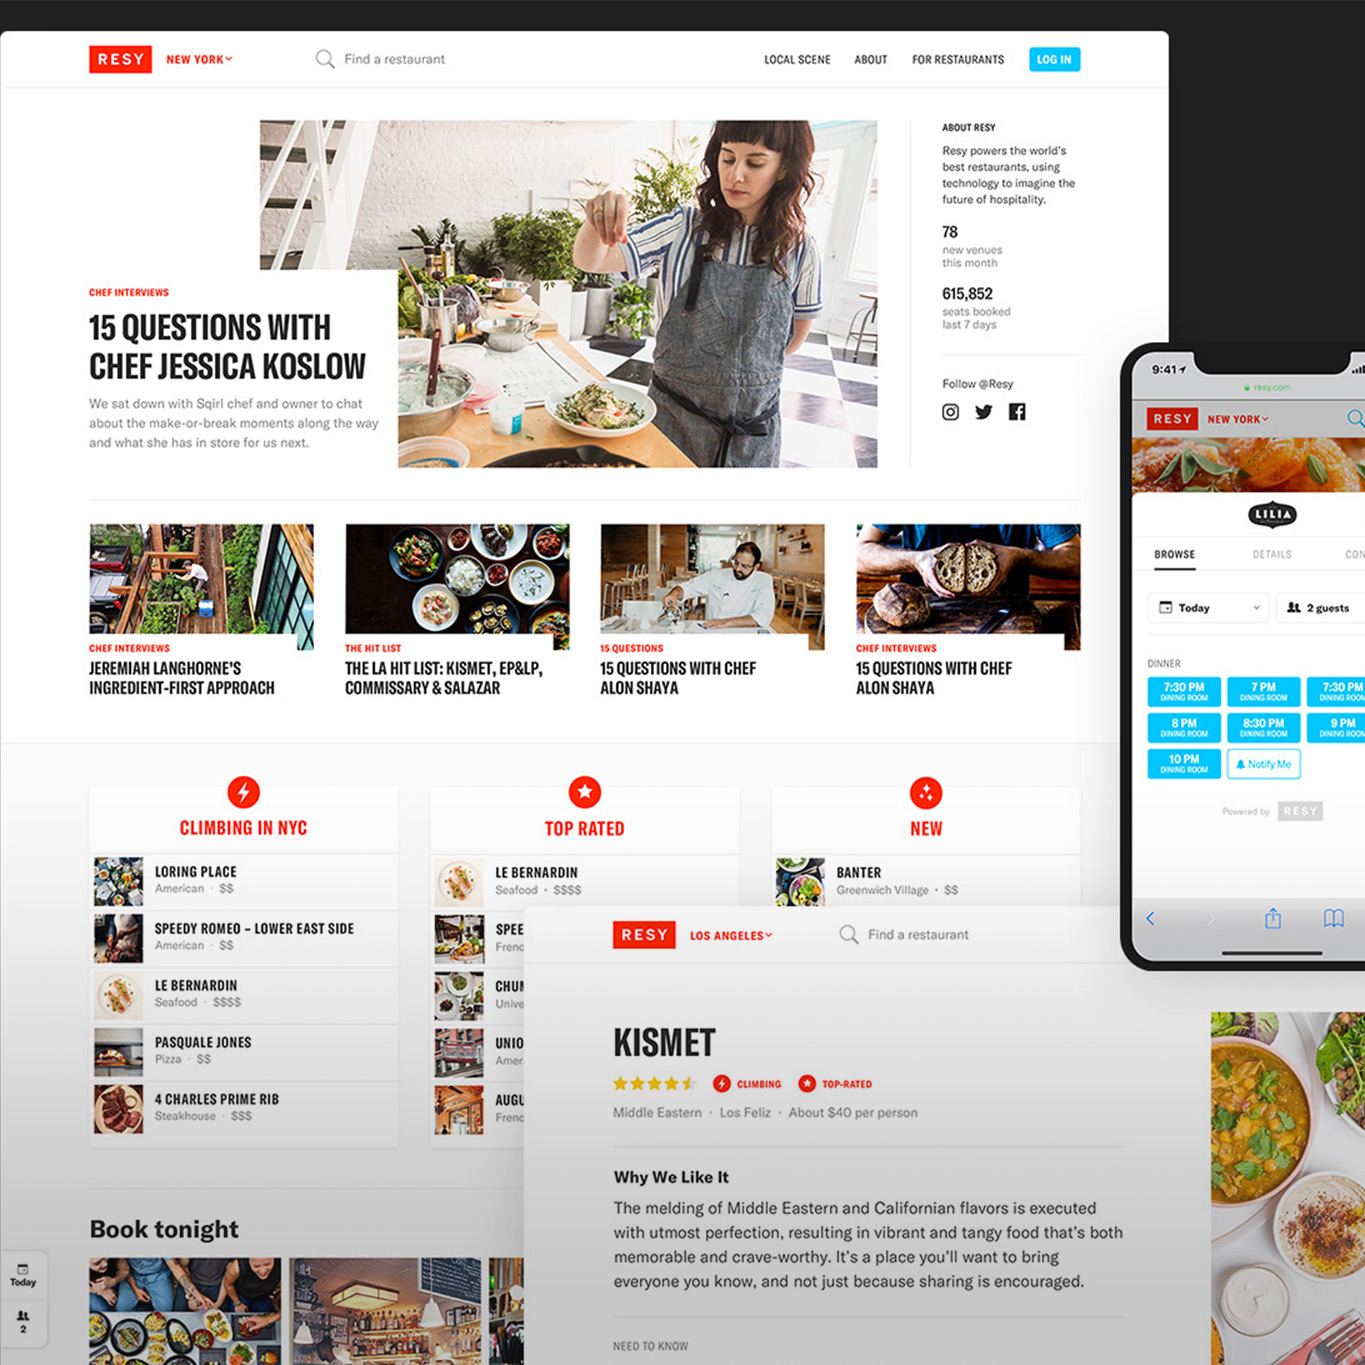
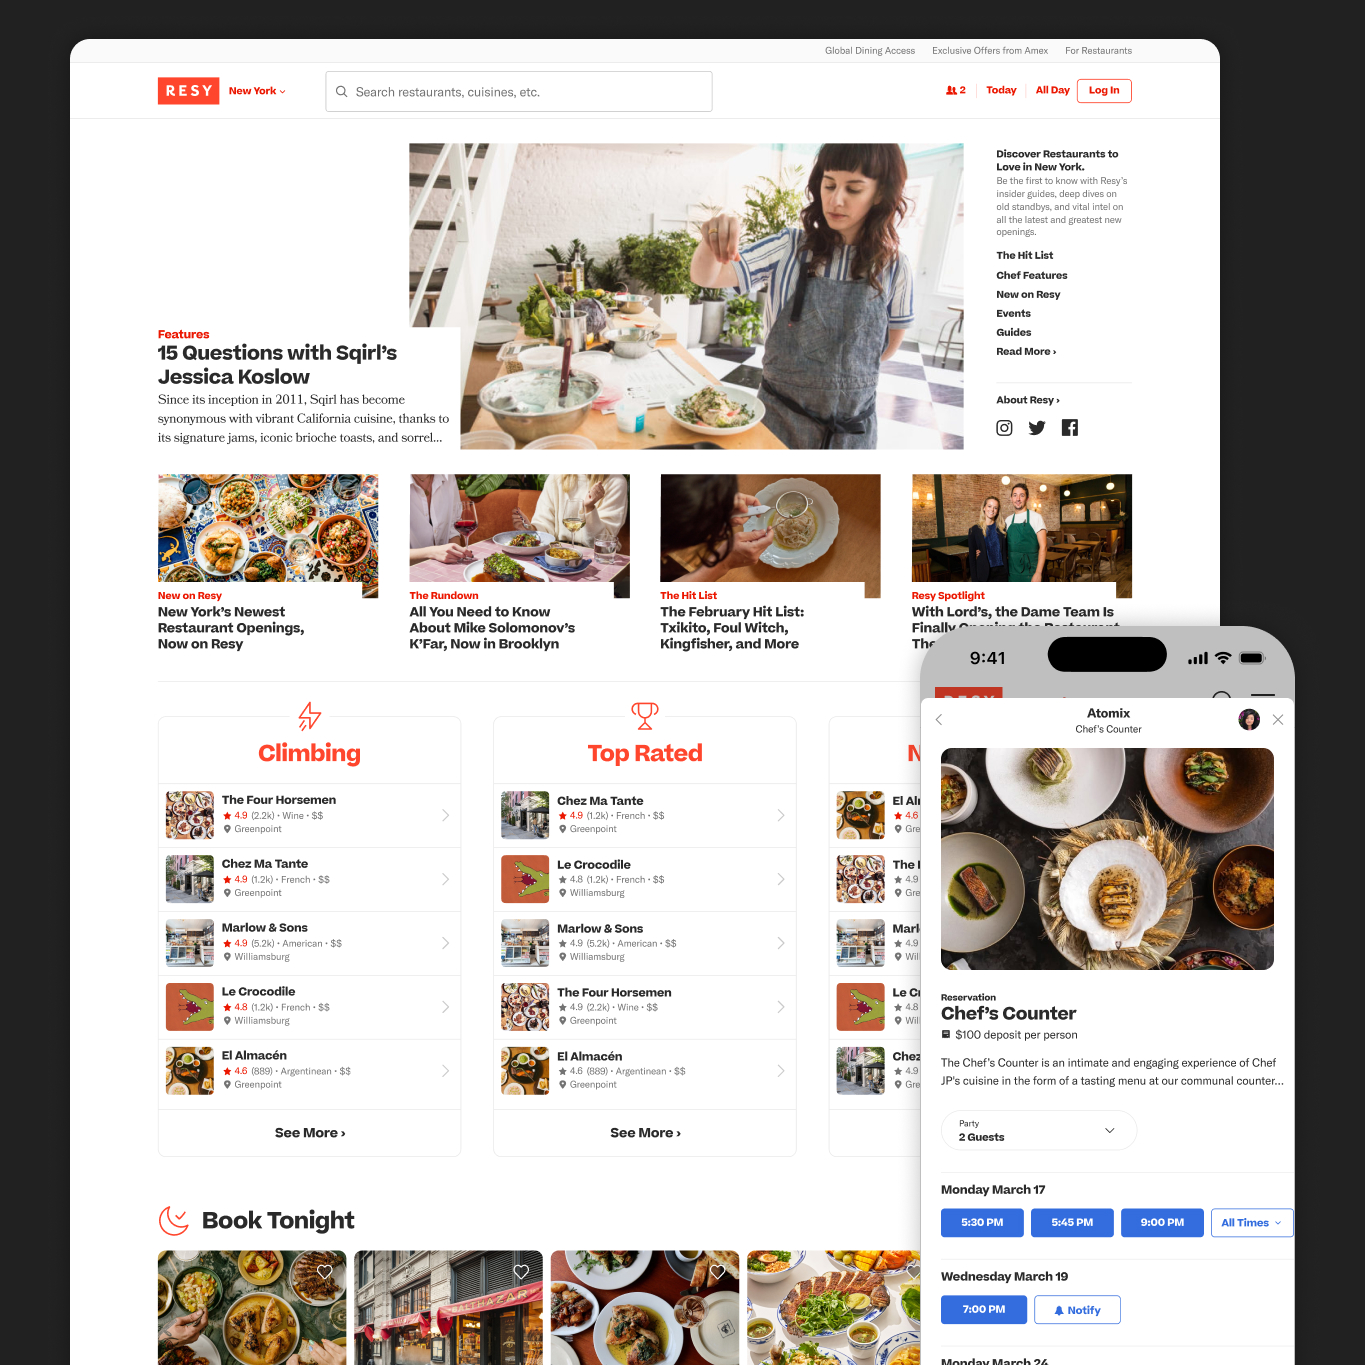
added a resy project

diff --git a/css/nieder.css b/css/nieder.css
@@ -5056,11 +5056,18 @@ img {
   background-image: url("../images/bf-smc-mobile.jpg");
 }
 .xs-cover--resyweb {
-  background-image: url("../images/resy-resyweb.jpg");
+  background-image: url("../images/resy-resyweb-desktop.jpg");
   background-position: top center !important;
 }
 .xs-cover--resyweb-mobile {
   background-image: url("../images/resy-resyweb-mobile.jpg");
+}
+.xs-cover--discovery {
+  background-image: url("../images/Resy-Discovery-desktop.jpg");
+  background-position: top center !important;
+}
+.xs-cover--discovery-mobile {
+  background-image: url("../images/Resy-Discovery-mobile.jpg");
 }
 .xs-cover--scoop {
   background-image: url("../images/nyt-scoop-desktop.jpg");
@@ -5150,11 +5157,18 @@ img {
     background-image: url("../images/bf-smc-mobile.jpg");
   }
   .sm-cover--resyweb {
-    background-image: url("../images/resy-resyweb.jpg");
+    background-image: url("../images/resy-resyweb-desktop.jpg");
     background-position: top center !important;
   }
   .sm-cover--resyweb-mobile {
     background-image: url("../images/resy-resyweb-mobile.jpg");
+  }
+  .sm-cover--discovery {
+    background-image: url("../images/Resy-Discovery-desktop.jpg");
+    background-position: top center !important;
+  }
+  .sm-cover--discovery-mobile {
+    background-image: url("../images/Resy-Discovery-mobile.jpg");
   }
   .sm-cover--scoop {
     background-image: url("../images/nyt-scoop-desktop.jpg");
@@ -5244,11 +5258,18 @@ img {
     background-image: url("../images/bf-smc-mobile.jpg");
   }
   .md-cover--resyweb {
-    background-image: url("../images/resy-resyweb.jpg");
+    background-image: url("../images/resy-resyweb-desktop.jpg");
     background-position: top center !important;
   }
   .md-cover--resyweb-mobile {
     background-image: url("../images/resy-resyweb-mobile.jpg");
+  }
+  .md-cover--discovery {
+    background-image: url("../images/Resy-Discovery-desktop.jpg");
+    background-position: top center !important;
+  }
+  .md-cover--discovery-mobile {
+    background-image: url("../images/Resy-Discovery-mobile.jpg");
   }
   .md-cover--scoop {
     background-image: url("../images/nyt-scoop-desktop.jpg");
@@ -5338,11 +5359,18 @@ img {
     background-image: url("../images/bf-smc-mobile.jpg");
   }
   .lg-cover--resyweb {
-    background-image: url("../images/resy-resyweb.jpg");
+    background-image: url("../images/resy-resyweb-desktop.jpg");
     background-position: top center !important;
   }
   .lg-cover--resyweb-mobile {
     background-image: url("../images/resy-resyweb-mobile.jpg");
+  }
+  .lg-cover--discovery {
+    background-image: url("../images/Resy-Discovery-desktop.jpg");
+    background-position: top center !important;
+  }
+  .lg-cover--discovery-mobile {
+    background-image: url("../images/Resy-Discovery-mobile.jpg");
   }
   .lg-cover--scoop {
     background-image: url("../images/nyt-scoop-desktop.jpg");
@@ -5432,11 +5460,18 @@ img {
     background-image: url("../images/bf-smc-mobile.jpg");
   }
   .xl-cover--resyweb {
-    background-image: url("../images/resy-resyweb.jpg");
+    background-image: url("../images/resy-resyweb-desktop.jpg");
     background-position: top center !important;
   }
   .xl-cover--resyweb-mobile {
     background-image: url("../images/resy-resyweb-mobile.jpg");
+  }
+  .xl-cover--discovery {
+    background-image: url("../images/Resy-Discovery-desktop.jpg");
+    background-position: top center !important;
+  }
+  .xl-cover--discovery-mobile {
+    background-image: url("../images/Resy-Discovery-mobile.jpg");
   }
   .xl-cover--scoop {
     background-image: url("../images/nyt-scoop-desktop.jpg");

diff --git a/index.html b/index.html
@@ -99,6 +99,19 @@
             </div>
           </a>
         </div>
+      </section>      
+      
+      <section class="clearfix md-relative md-section-view-tall md-cover md-cover--discovery-mobile lg-cover--discovery xs-fill-brand">
+        <div class="clearfix xs-mx-auto">
+          <a href="https://www.foodandwine.com/resy-updates-app-with-restaurant-inspiration-stories-8663735" class="md-absolute xs-b7 md-my4 col xs-col-12">
+            <img src="/images/Resy-Discovery-mobile.jpg" class="md-hide"/>
+            <div class="card xs-relative md-static xs-fill-gray-mid md-fill-none xs-border xs-mx2 xs-neg-mt5 xs-mb5 md-m0 md-border-thick col md-offset-1 md-col-5 lg-col-4">
+              <h3 class="xs-p2 md-px3 md-pt3 xl-px3 xl-pt3 xs-mb1 xs-text-6 xs-line-height-hed md-text-5 xl-text-5">Product, Design, UX</h3>
+              <h2 class="xs-px2 md-px3 md-pt3 xl-px3 xl-pt3 xl-pt6 xs-mb1 xs-text-5 md-text-3 xs-line-height-hed xl-text-2 bold">Resy for iOS: In-App Discovery & Navigation Rearchitecture&nbsp;›</h2>
+              <p class="xs-t6 xs-px2 xs-pb3 md-px3 xl-px3 md-pb4 xs-text-6 xs-line-height-body md-line-height-hed md-text-5 xl-text-4">Anchored by Resy Editorial and algorithmic Collections, with support for native Booking and Add-to-Lists.</p>
+            </div>
+          </a>
+        </div>
       </section>
       
       <section class="clearfix">

diff --git a/_scss/nieder.scss b/_scss/nieder.scss
@@ -205,12 +205,21 @@
   }
 
   &cover--resyweb {
-    background-image: url("../images/resy-resyweb.jpg");
+    background-image: url("../images/resy-resyweb-desktop.jpg");
     background-position: top center !important;
   }
 
   &cover--resyweb-mobile {
     background-image: url("../images/resy-resyweb-mobile.jpg");
+  }
+  
+  &cover--discovery {
+    background-image: url("../images/Resy-Discovery-desktop.jpg");
+    background-position: top center !important;
+  }
+  
+  &cover--discovery-mobile {
+    background-image: url("../images/Resy-Discovery-mobile.jpg");
   }
 
   &cover--scoop {
